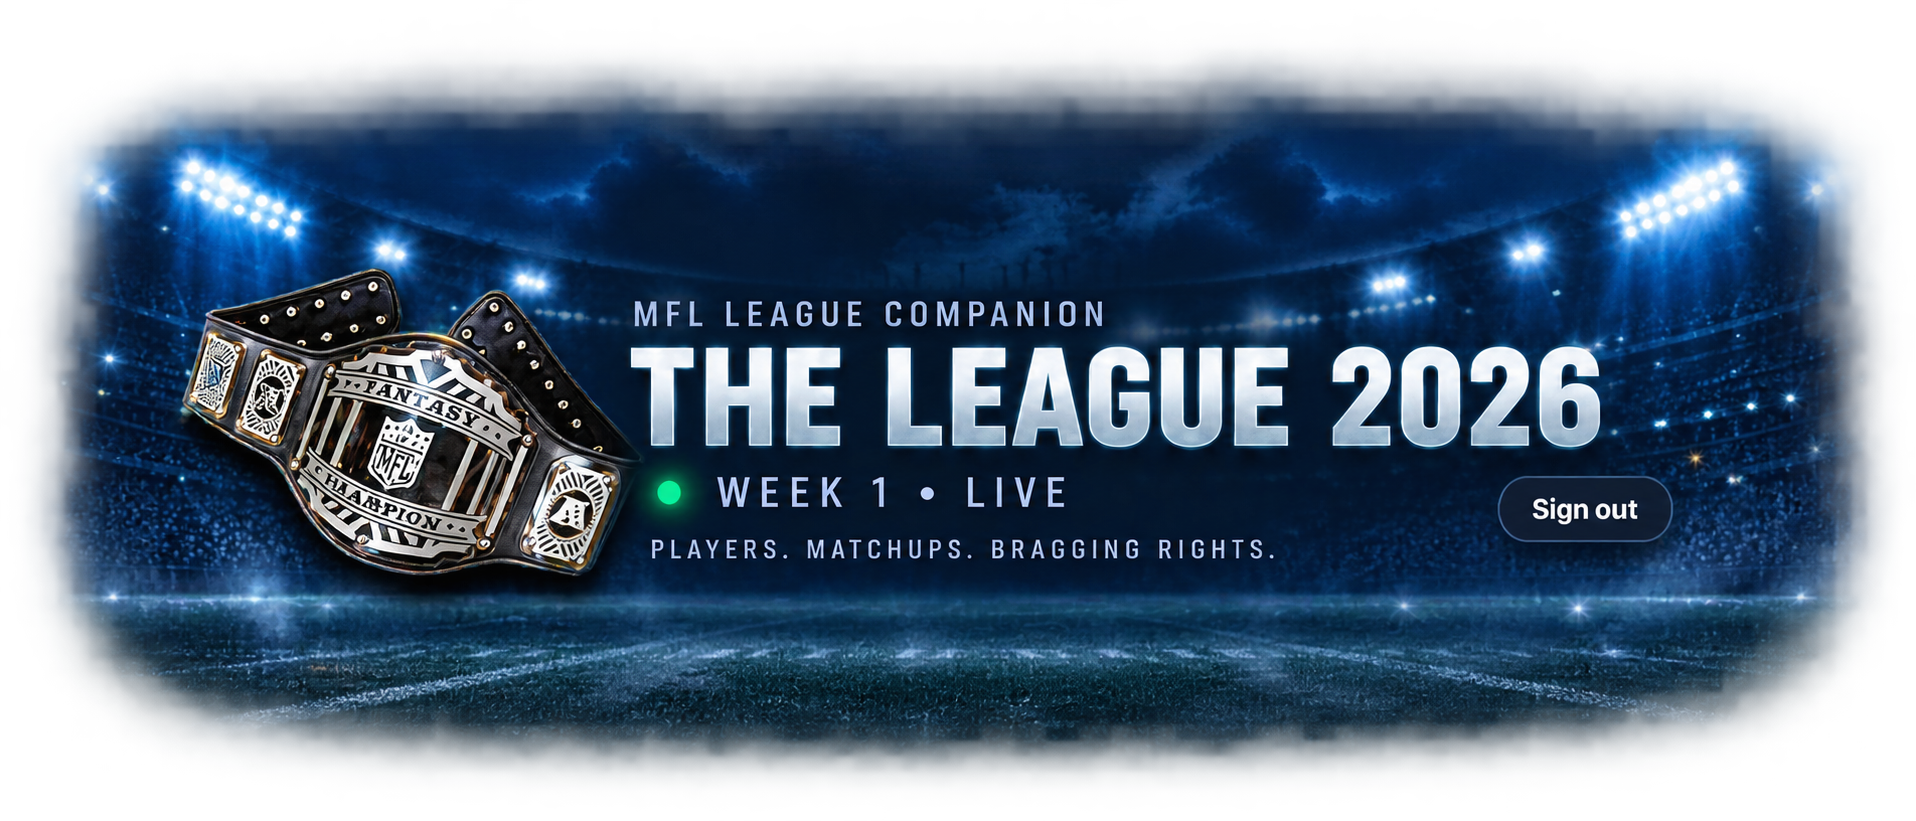
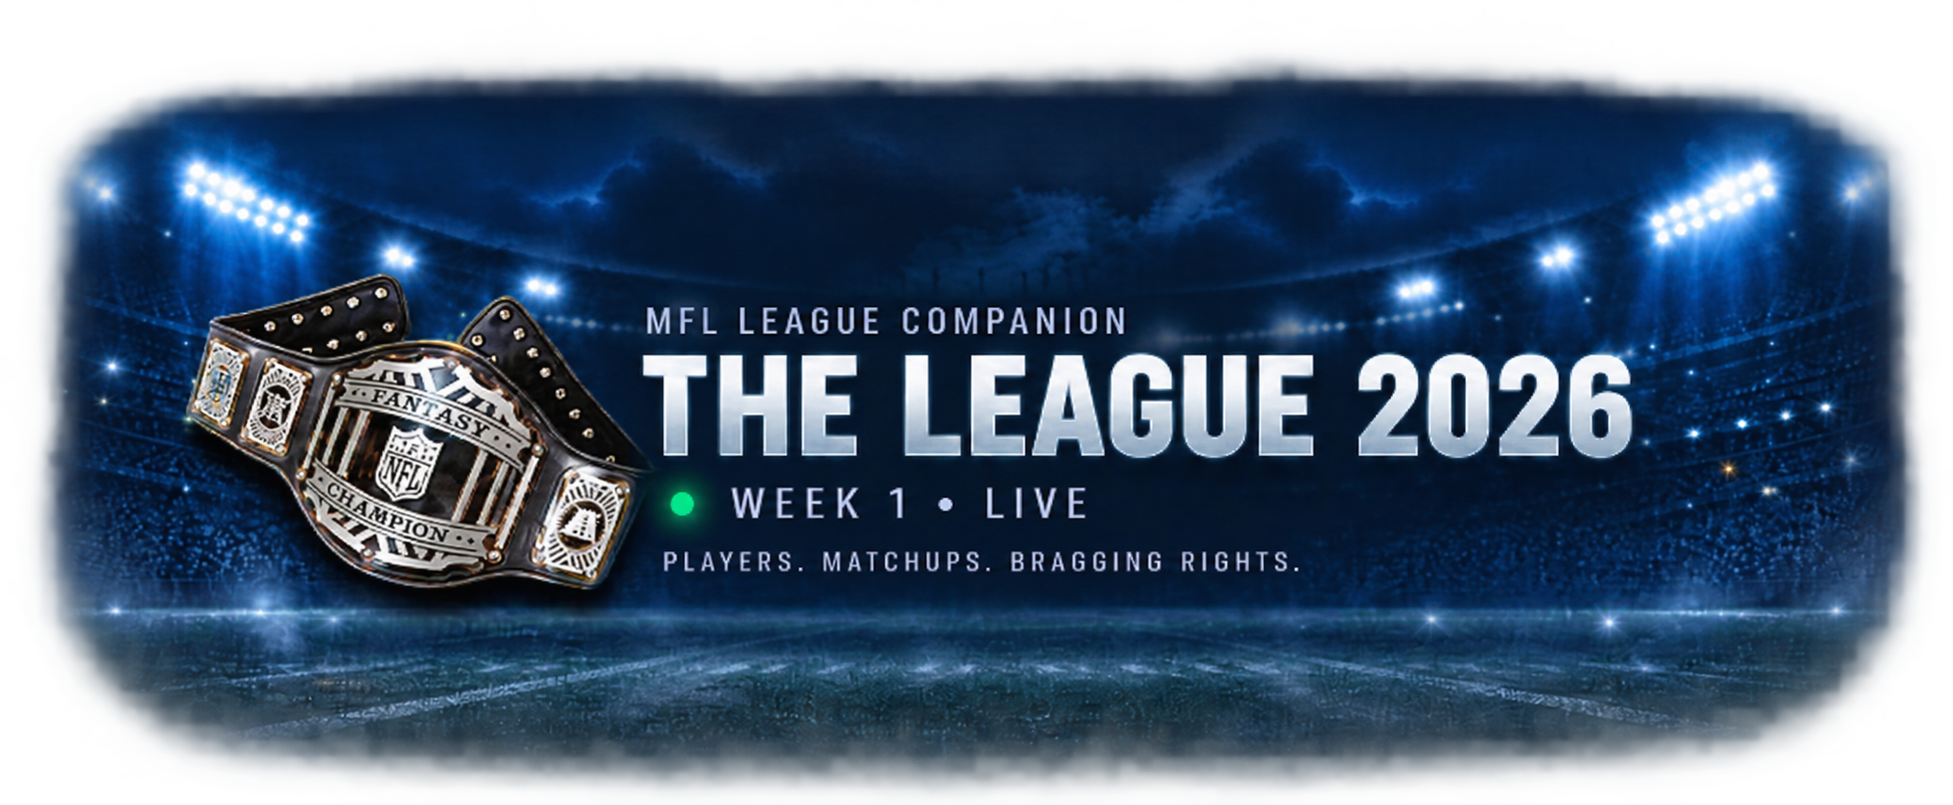
chore: replace hero with clean artwork

diff --git a/app/layout.tsx b/app/layout.tsx
@@ -41,8 +41,8 @@ export default async function RootLayout({ children }: Readonly<{ children: Reac
                   src="/the-league-2026-hero.png"
                   alt="The League 2026 — Week 1 live fantasy football companion"
                   className="site-banner-image"
-                  width={1916}
-                  height={821}
+                  width={1953}
+                  height={805}
                   sizes="(max-width: 600px) 100vw, 848px"
                   preload
                 />
